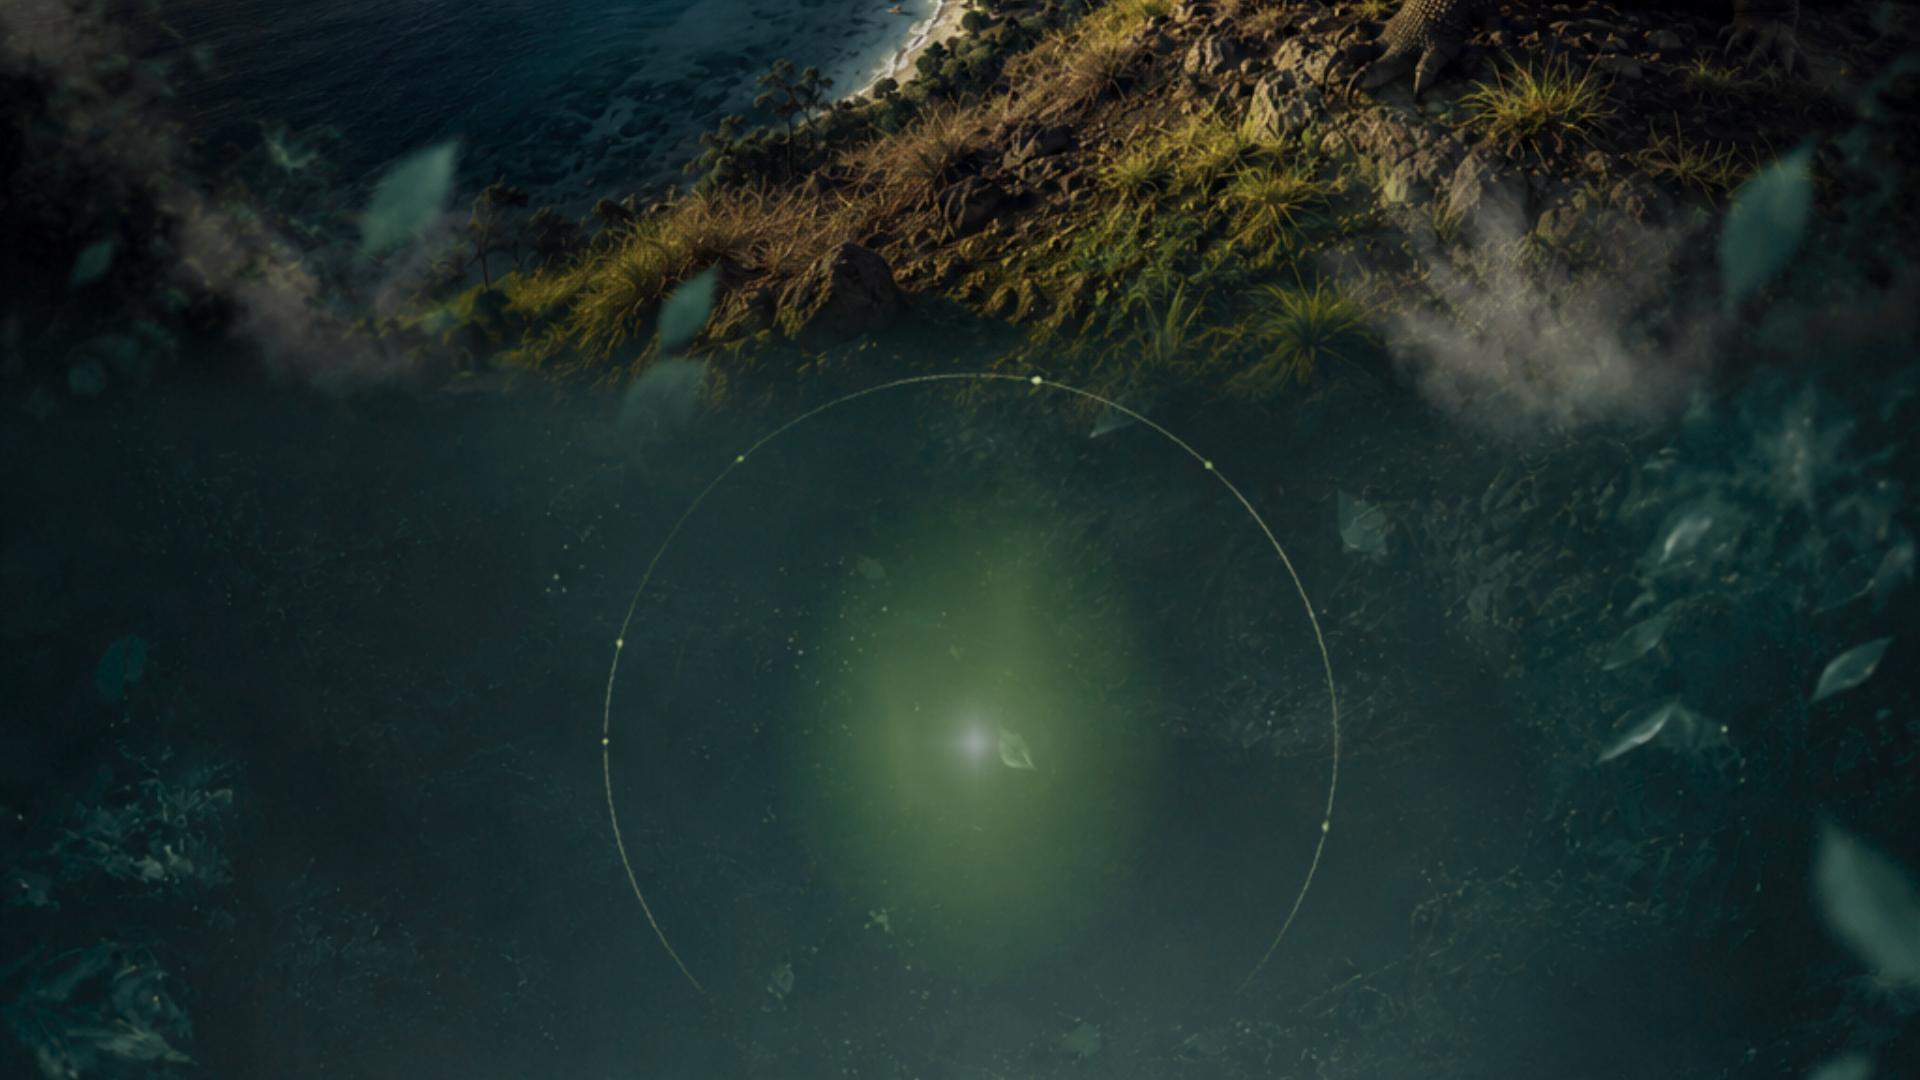
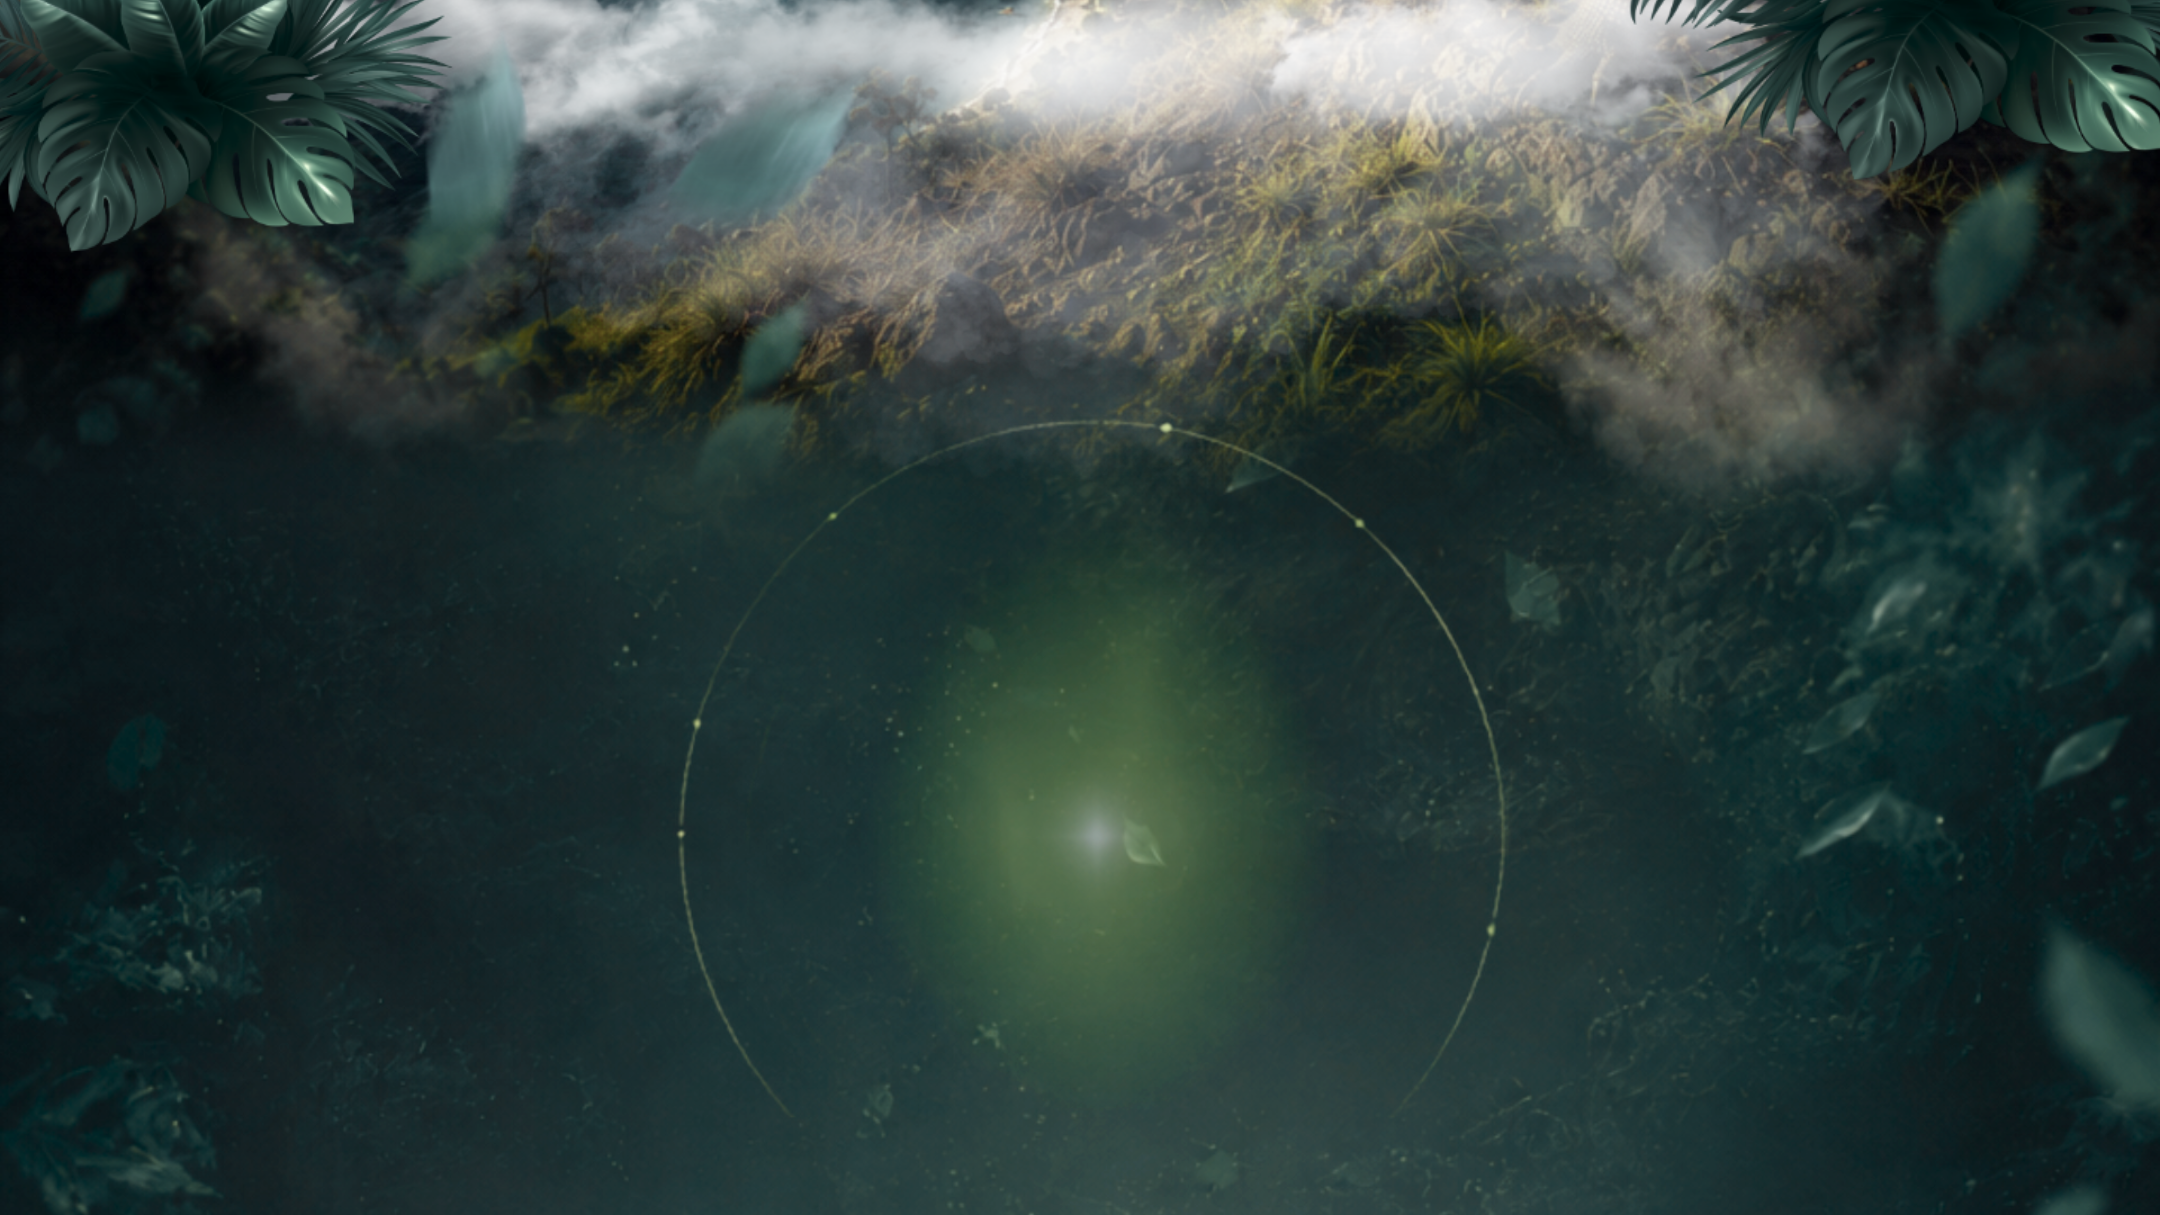
fix: ubah nama folder Loh Liang menjadi loh-liang hindari case sensitivity

Changed region(s): [[0.0, 0.0, 1.0, 0.3667]]

diff --git a/src/components/CustomCursor.tsx b/src/components/CustomCursor.tsx
@@ -1,0 +1,73 @@
+// File: src/components/CustomCursor.tsx
+"use client";
+
+import React, { useEffect, useState } from 'react';
+
+export default function CustomCursor() {
+  const [position, setPosition] = useState({ x: 0, y: 0 });
+  const [isHovering, setIsHovering] = useState(false);
+
+  useEffect(() => {
+    // Fungsi untuk melacak koordinat mouse
+    const moveCursor = (e: MouseEvent) => {
+      setPosition({ x: e.clientX, y: e.clientY });
+    };
+
+    // Fungsi untuk mendeteksi apakah mouse sedang berada di atas link/tombol
+    const handleMouseOver = (e: MouseEvent) => {
+      const target = e.target as HTMLElement;
+      // Membesar jika menyentuh tag <a>, <button>, atau elemen dengan class 'cursor-pointer'
+      if (
+        target.tagName.toLowerCase() === 'a' || 
+        target.tagName.toLowerCase() === 'button' || 
+        target.closest('a') || 
+        target.closest('button') ||
+        target.classList.contains('cursor-pointer')
+      ) {
+        setIsHovering(true);
+      } else {
+        setIsHovering(false);
+      }
+    };
+
+    // Menambahkan event listener ke window
+    window.addEventListener('mousemove', moveCursor);
+    window.addEventListener('mouseover', handleMouseOver);
+
+    // Membersihkan event listener saat komponen dilepas (unmount)
+    return () => {
+      window.removeEventListener('mousemove', moveCursor);
+      window.removeEventListener('mouseover', handleMouseOver);
+    };
+  }, []);
+
+  return (
+    <>
+      {/* 
+        Lingkaran Kursor: 
+        Menggunakan fixed positioning dan z-index sangat tinggi agar selalu di atas.
+        Hanya tampil di layar Desktop (hidden md:block) agar tidak mengganggu layar sentuh HP.
+      */}
+      <div
+        className={`fixed top-0 left-0 w-8 h-8 border-2 border-emerald-400 rounded-full pointer-events-none z-[99999] -translate-x-1/2 -translate-y-1/2 transition-all duration-150 ease-out hidden md:block ${
+          isHovering ? 'scale-150 bg-emerald-400/20' : 'scale-100'
+        }`}
+        style={{
+          left: `${position.x}px`,
+          top: `${position.y}px`,
+        }}
+      />
+      
+      {/* (Opsional) Titik kecil tepat di tengah pointer */}
+      <div
+        className={`fixed top-0 left-0 w-1.5 h-1.5 bg-emerald-500 rounded-full pointer-events-none z-[99999] -translate-x-1/2 -translate-y-1/2 transition-opacity duration-150 hidden md:block ${
+          isHovering ? 'opacity-0' : 'opacity-100'
+        }`}
+        style={{
+          left: `${position.x}px`,
+          top: `${position.y}px`,
+        }}
+      />
+    </>
+  );
+}

diff --git a/src/components/Testimoni.tsx b/src/components/Testimoni.tsx
@@ -1,11 +1,10 @@
 "use client";
 
 import React from 'react';
-import { useLanguage } from '@/components/LanguageContext'; // Pastikan path ini benar
+import { useLanguage } from '@/components/LanguageContext';
 import { dict } from '@/data/dictionary';
 
 export default function Testimoni() {
-  // 1. Ambil state bahasa dari context (sesuaikan destructuring dengan isi context-mu)
   const { lang } = useLanguage(); 
   const content = dict[lang]?.testimoni;
 
@@ -19,47 +18,65 @@ export default function Testimoni() {
 
   return (
     <section id="testimoni" className="relative py-24 bg-[#050810] overflow-hidden">
+      
+      {/* Background Image */}
       <div className="absolute inset-0 z-0">
         <img 
           src="/Testimoni/bg.png" 
           alt="Background Testimoni" 
-          className="w-full h-full object-fill brightness-95" 
+          className="w-full h-full object-fill brightness-95 opacity-80" 
         />
+        {/* Tambahan overlay gradient tipis agar teks lebih terbaca */}
+        <div className="absolute inset-0 bg-gradient-to-b from-[#050810]/40 via-transparent to-[#050810]/80"></div>
       </div>
 
       <style jsx>{`
         @keyframes slideRight { 0% { transform: translateX(0); } 100% { transform: translateX(-50%); } }
         @keyframes slideLeft { 0% { transform: translateX(-50%); } 100% { transform: translateX(0); } }
-        @keyframes gasp { 0%, 100% { transform: scale(1); } 50% { transform: scale(1.12); } }
+        @keyframes gasp { 0%, 100% { transform: scale(1); } 50% { transform: scale(1.05); } }
         .animate-slideRight { animation: slideRight 40s linear infinite; will-change: transform; }
         .animate-slideLeft { animation: slideLeft 40s linear infinite; will-change: transform; }
-        .testimoni-card { transition: all 0.3s ease; }
+        .testimoni-card { transition: all 0.4s cubic-bezier(0.4, 0, 0.2, 1); }
         .testimoni-card:hover { 
           animation: gasp 0.6s cubic-bezier(0.36, 0, 0.66, -0.56);
-          box-shadow: 0 20px 40px rgba(16, 185, 129, 0.2);
-          border-color: rgba(16, 185, 129, 0.6);
+          box-shadow: 0 20px 40px rgba(16, 185, 129, 0.15);
+          border-color: rgba(52, 211, 153, 0.5);
+          transform: translateY(-4px);
         }
       `}</style>
 
       <div className="relative z-10">
-        <h2 className="text-4xl font-bold mb-16 text-center text-white drop-shadow-md">
-          {content.title1} <span className="text-emerald-500">{content.title2}</span>
-        </h2>
+        
+        {/* ========================================= */}
+        {/* HEADER TESTIMONI YANG LEBIH PROFESIONAL   */}
+        {/* ========================================= */}
+        <div className="flex flex-col items-center justify-center mb-16 px-6 text-center">
+          <span className="text-emerald-400 font-bold uppercase tracking-[0.25em] text-[10px] md:text-xs mb-3 block drop-shadow-md">
+            {lang === 'id' ? 'Ulasan & Pengalaman' : 'Reviews & Experiences'}
+          </span>
+          <h2 className="text-4xl md:text-5xl lg:text-[54px] font-serif font-bold text-white leading-tight drop-shadow-lg">
+            {content.title1}{' '}
+            <span className="text-transparent bg-clip-text bg-gradient-to-r from-emerald-400 via-emerald-300 to-cyan-300">
+              {content.title2}
+            </span>
+          </h2>
+          <div className="w-20 h-1 bg-gradient-to-r from-emerald-500 to-transparent mt-6 rounded-full opacity-80"></div>
+        </div>
         
         {/* Baris 1 */}
         <div className="flex animate-slideRight mb-8 w-max">
           {row1.map((t, i) => (
-            <div key={i} className="testimoni-card mr-6 min-w-[320px] bg-gradient-to-br from-slate-900/90 to-slate-800/90 backdrop-blur-sm p-8 rounded-2xl border border-slate-700/60 cursor-pointer">
-              <div className="flex items-center gap-4 mb-5">
-                <div className="relative w-14 h-14 rounded-full overflow-hidden border-2 border-emerald-500/30 flex-shrink-0">
+            <div key={i} className="testimoni-card mr-6 min-w-[340px] bg-[#0b121a]/85 backdrop-blur-xl p-8 rounded-3xl border border-slate-700/50 cursor-pointer">
+              <div className="flex items-center gap-4 mb-6">
+                <div className="relative w-14 h-14 rounded-full overflow-hidden border-[2.5px] border-emerald-500/50 flex-shrink-0 shadow-[0_0_15px_rgba(16,185,129,0.3)]">
                   <img src={t.avatar} alt={t.nama} className="w-full h-full object-cover" />
                 </div>
                 <div>
-                  <h4 className="font-bold text-white text-sm">{t.nama}</h4>
-                  <p className="text-emerald-400 text-xs">{content.visitor}</p>
+                  <h4 className="font-serif font-bold text-white text-base tracking-wide">{t.nama}</h4>
+                  <p className="text-emerald-400 text-[11px] font-medium uppercase tracking-wider">{content.visitor}</p>
                 </div>
               </div>
-              <p className="text-slate-300 italic text-base leading-relaxed">"{t.teks}"</p>
+              <p className="text-slate-300 italic text-sm leading-relaxed">"{t.teks}"</p>
             </div>
           ))}
         </div>
@@ -67,20 +84,21 @@ export default function Testimoni() {
         {/* Baris 2 */}
         <div className="flex animate-slideLeft w-max">
           {row2.map((t, i) => (
-            <div key={i} className="testimoni-card mr-6 min-w-[320px] bg-gradient-to-br from-slate-900/90 to-slate-800/90 backdrop-blur-sm p-8 rounded-2xl border border-slate-700/60 cursor-pointer">
-              <div className="flex items-center gap-4 mb-5">
-                <div className="relative w-14 h-14 rounded-full overflow-hidden border-2 border-emerald-500/30 flex-shrink-0">
+            <div key={i} className="testimoni-card mr-6 min-w-[340px] bg-[#0b121a]/85 backdrop-blur-xl p-8 rounded-3xl border border-slate-700/50 cursor-pointer">
+              <div className="flex items-center gap-4 mb-6">
+                <div className="relative w-14 h-14 rounded-full overflow-hidden border-[2.5px] border-emerald-500/50 flex-shrink-0 shadow-[0_0_15px_rgba(16,185,129,0.3)]">
                   <img src={t.avatar} alt={t.nama} className="w-full h-full object-cover" />
                 </div>
                 <div>
-                  <h4 className="font-bold text-white text-sm">{t.nama}</h4>
-                  <p className="text-emerald-400 text-xs">{content.visitor}</p>
+                  <h4 className="font-serif font-bold text-white text-base tracking-wide">{t.nama}</h4>
+                  <p className="text-emerald-400 text-[11px] font-medium uppercase tracking-wider">{content.visitor}</p>
                 </div>
               </div>
-              <p className="text-slate-300 italic text-base leading-relaxed">"{t.teks}"</p>
+              <p className="text-slate-300 italic text-sm leading-relaxed">"{t.teks}"</p>
             </div>
           ))}
         </div>
+        
       </div>
     </section>
   );

diff --git a/src/app/layout.tsx b/src/app/layout.tsx
@@ -1,11 +1,14 @@
-// File: src/app/layout.tsx (Atau letak file layout utama kamu)
+// File: src/app/layout.tsx
 
 import type { Metadata } from "next";
 import { Geist, Geist_Mono } from "next/font/google";
 import "./globals.css";
-// Import Provider Bahasa
-import { LanguageProvider } from "@/components/LanguageContext";
 
+// 1. IMPORT GLOBAL PROVIDER & KOMPONEN
+import { LanguageProvider } from "@/components/LanguageContext";
+import CustomCursor from "@/components/CustomCursor";
+
+// 2. KONFIGURASI FONT
 const geistSans = Geist({
   variable: "--font-geist-sans",
   subsets: ["latin"],
@@ -16,9 +19,13 @@ const geistMono = Geist_Mono({
   subsets: ["latin"],
 });
 
+// 3. METADATA & SEO UTAMA WEB
 export const metadata: Metadata = {
-  title: "Create Next App",
-  description: "Generated by create next app",
+  title: "ORAHA | Komodo Ecotourism Portal",
+  description: "Gerbang digital eksplorasi Taman Nasional Komodo. Pengalaman petualangan alam liar yang otentik dan berkelanjutan.",
+  icons: {
+    icon: "/Home/logo.png", // Opsional: Akan otomatis membaca logo Anda sebagai favicon
+  },
 };
 
 export default function RootLayout({
@@ -27,13 +34,19 @@ export default function RootLayout({
   children: React.ReactNode;
 }>) {
   return (
-    <html lang="en">
+    // Tambahkan scroll-smooth agar navigasi anchor (href="#id") meluncur mulus
+    <html lang="id" className="scroll-smooth">
       <body
-        className={`${geistSans.variable} ${geistMono.variable} antialiased`}
+        className={`${geistSans.variable} ${geistMono.variable} antialiased bg-[#050810] text-white overflow-x-hidden`}
       >
-        {/* Bungkus aplikasi dengan LanguageProvider */}
         <LanguageProvider>
-          {children}
+          {/* Efek Kursor Interaktif Global */}
+          <CustomCursor />
+          
+          {/* Render Seluruh Konten Halaman */}
+          <main className="relative flex min-h-screen flex-col">
+            {children}
+          </main>
         </LanguageProvider>
       </body>
     </html>

diff --git a/src/data/destinasi.ts b/src/data/destinasi.ts
@@ -163,12 +163,12 @@ export const destinasiData: DestinasiItem[] = [
     lokasi: 'Taman Nasional Komodo',
     rating: '4.8',
     harga: 'IDR 750.000 / orang',
-    img: '/Destinasi/Loh Liang/0.jpeg',
+    img: '/Destinasi/loh-liang/0.png',
     gallery: [
-      '/Destinasi/Loh Liang/1.jpg',
-      '/Destinasi/Loh Liang/2.jpg',
-      '/Destinasi/Loh Liang/3.jpg',
-      '/Destinasi/Loh Liang/4.jpg',
+      '/Destinasi/loh-liang/2.png',
+      '/Destinasi/loh-liang/3.png',
+      '/Destinasi/loh-liang/4.png',
+      '/Destinasi/loh-liang/1.png',
     ],
     desc_id: 'Pintu masuk utama wisata di Pulau Komodo dan pusat observasi terbesar satwa komodo liar dengan berbagai rute trekking yang dipandu oleh ranger berpengalaman.',
     desc_en: 'The main entry point for Komodo Island tourism and the largest observation center for wild Komodo dragons with various trekking routes guided by experienced rangers.',

diff --git a/src/data/dictionary.ts b/src/data/dictionary.ts
@@ -117,9 +117,8 @@ export const dict: any = {
       ]
     },
     testimoni: {
-      title1: "Jejak",
-      title2: "Kebaikan",
-      visitor: "Pengunjung",
+      title1: "Testimoni",
+      title2: "Pengunjung",
       data: [
         { id: 1, nama: 'Budi S', teks: 'Luar biasa!', avatar: 'https://i.pravatar.cc/150?img=11' },
         { id: 2, nama: 'Sarah W', teks: 'Ekowisata nyata.', avatar: 'https://i.pravatar.cc/150?img=5' },
@@ -267,9 +266,8 @@ export const dict: any = {
       ]
     },
     testimoni: {
-      title1: "Traces of",
-      title2: "Goodness",
-      visitor: "Visitor",
+      title1: "Visitor",
+      title2: "Testimonials",
       data: [
         { id: 1, nama: 'Budi S', teks: 'Incredible!', avatar: 'https://i.pravatar.cc/150?img=11' },
         { id: 2, nama: 'Sarah W', teks: 'True ecotourism.', avatar: 'https://i.pravatar.cc/150?img=5' },

diff --git a/src/components/Peta.tsx b/src/components/Peta.tsx
@@ -48,7 +48,7 @@ export default function Peta() {
       </div>
 
       {/* LAYER 1.5: TITIK PIN PETA INTERAKTIF */}
-      <div className="absolute inset-0 max-w-[1600px] mx-auto w-full h-full pointer-events-auto z-50 -translate-y-52 -translate-x-8 md:translate-y-0 md:translate-x-0">
+      <div className="absolute inset-0 max-w-[1600px] mx-auto w-full h-full pointer-events-auto z-50 -translate-y-52 -translate-x-6 md:translate-y-0 md:translate-x-0">
 
         {mapLocations.map((loc) => (
           <div 

diff --git a/src/views/Home.tsx b/src/views/Home.tsx
@@ -91,7 +91,7 @@ export default function Hero() {
               key={index}
               src={src} 
               alt={`Komodo Island Background ${index + 1}`} 
-              className={`absolute inset-0 w-full h-full object-cover object-center transition-opacity duration-1000 ease-in-out ${
+              className={`absolute inset-0 w-full h-full object-cover object-bottom transition-opacity duration-1000 ease-in-out ${
                 index === currentBg ? 'opacity-100 z-10' : 'opacity-0 z-0'
               }`}
             />

diff --git a/src/views/Sejarah.tsx b/src/views/Sejarah.tsx
@@ -75,7 +75,7 @@ export default function Sejarah() {
           <img 
             src="/sejarah/bg.png" 
             alt="Background Sejarah" 
-            className="w-full h-full object-cover object-center opacity-100 transition-transform duration-1000 ease-out" 
+            className="w-full h-full object-cover object-top opacity-100 transition-transform duration-1000 ease-out" 
           />
           {/* Overlay Tipis: Cukup 20% agar warna asli gambar tetap menonjol */}
           <div className="absolute inset-0 bg-[#050810]/20 pointer-events-none"></div>

diff --git a/README.md b/README.md
@@ -13,6 +13,7 @@ Website ini merupakan platform ekowisata dan pariwisata berkelanjutan yang dikem
 - 💳 **Tour Booking System**: Sistem formulir pemesanan paket wisata dengan UI/UX modern, dilengkapi simulasi alur pembayaran via Virtual Account (BCA), E-Wallet (GoPay/OVO/DANA), dan QRIS.
 - 📱 **100% Responsive Design**: Tata letak dan penataan gambar latar belakang (_background_) yang dioptimalkan secara sempurna untuk segala ukuran layar (Mobile, Tablet, Desktop) tanpa terpotong.
 - ⚡ **High Performance & Animations**: Performa memuat halaman yang sangat cepat berkat SSR Next.js, dibalut dengan animasi transisi yang mulus menggunakan GSAP (GreenSock) dan CSS modern.
+- 🤖 **AI-Powered Travel Assistant**: Chatbot pintar yang terintegrasi secara real-time untuk menjawab pertanyaan seputar panduan wisata, aturan konservasi, hingga rekomendasi rute perjalanan secara personal, tersedia 24/7 untuk memastikan kenyamanan pengunjung
 
 ---
 